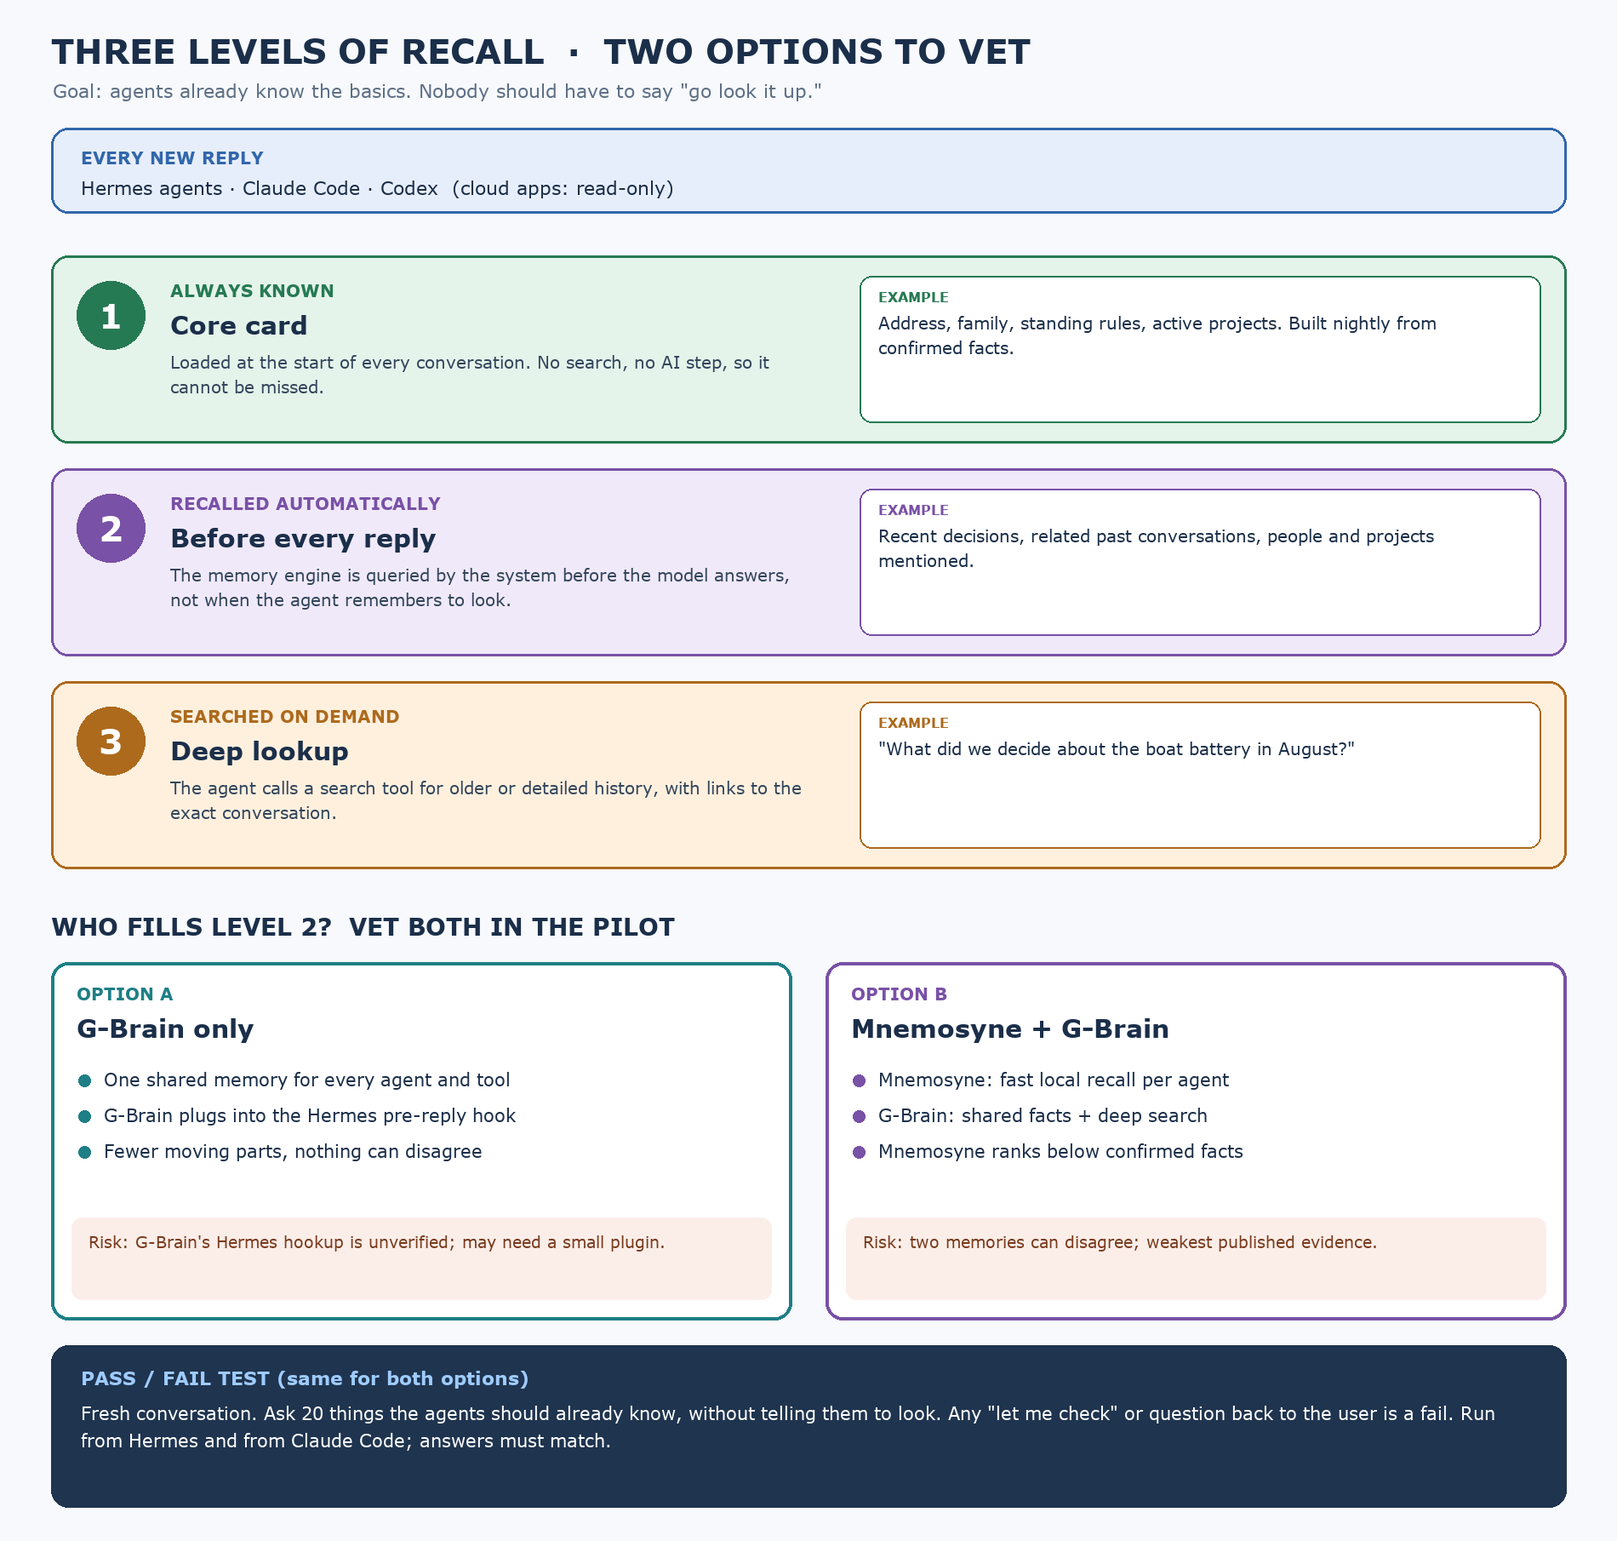
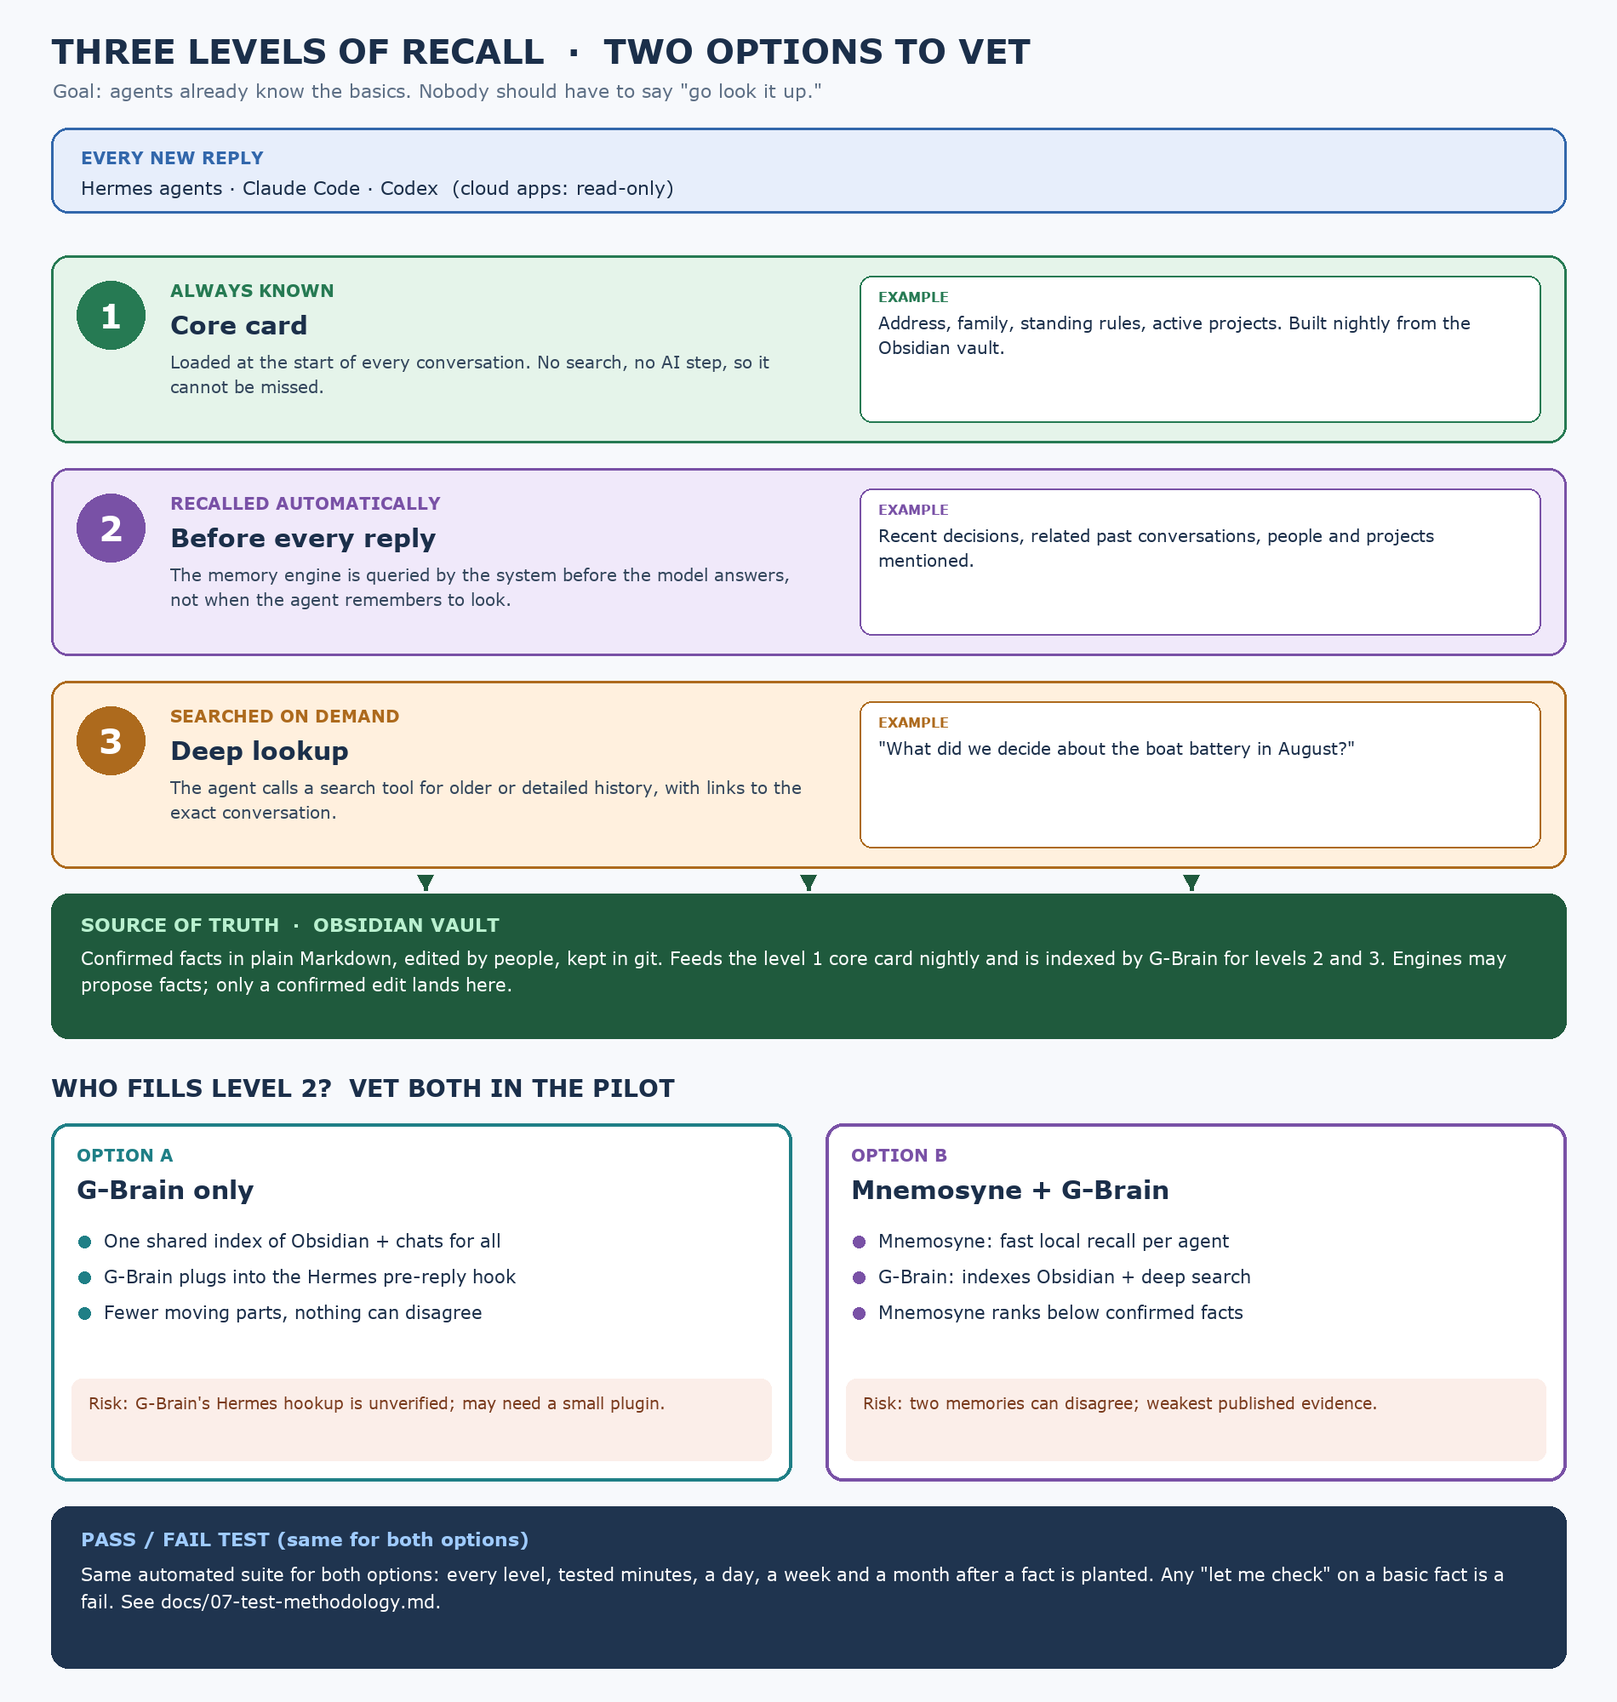
Add Obsidian source-of-truth to recall diagram; add automated test methodology and timeline

diff --git a/diagrams/src/memory-recall-levels.py b/diagrams/src/memory-recall-levels.py
@@ -2,7 +2,7 @@ from PIL import Image, ImageDraw, ImageFont
 from pathlib import Path
 import math, sys
 out = Path(sys.argv[1]) if len(sys.argv) > 1 else Path('memory-recall-levels.png')
-W, H = 1900, 1980
+W, H = 1900, 2200
 im = Image.new('RGB', (W, H), '#f7f9fc'); d = ImageDraw.Draw(im)
 reg = '/System/Library/Fonts/Supplemental/Verdana.ttf'; bold = '/System/Library/Fonts/Supplemental/Verdana Bold.ttf'
 def F(n, b=False): return ImageFont.truetype(bold if b else reg, n)
@@ -30,7 +30,7 @@ T(95, 206, 'Hermes agents · Claude Code · Codex  (cloud apps: read-only)', 22,
 levels = [
  ('1', 'ALWAYS KNOWN', 'Core card', green, '#e5f4ea',
   'Loaded at the start of every conversation. No search, no AI step, so it cannot be missed.',
-  'Address, family, standing rules, active projects. Built nightly from confirmed facts.'),
+  'Address, family, standing rules, active projects. Built nightly from the Obsidian vault.'),
  ('2', 'RECALLED AUTOMATICALLY', 'Before every reply', purple, '#f0e9fa',
   'The memory engine is queried by the system before the model answers, not when the agent remembers to look.',
   'Recent decisions, related past conversations, people and projects mentioned.'),
@@ -48,16 +48,23 @@ for n, cap, name, c, fill, how, ex in levels:
     T(1032, y+38, 'EXAMPLE', 16, c, True)
     wrap(1032, y+66, ex, W-90-1032-30, 20, dark)
     y += lh
+# source of truth band
+B((60, y, W-60, y+170), '#1f5a3d', None)
+T(95, y+22, 'SOURCE OF TRUTH  ·  OBSIDIAN VAULT', 22, '#b9f0cf', True)
+wrap(95, y+62, 'Confirmed facts in plain Markdown, edited by people, kept in git. Feeds the level 1 core card nightly and is indexed by G-Brain for levels 2 and 3. Engines may propose facts; only a confirmed edit lands here.', W-220, 21, '#ffffff', False, 31)
+for x in (500, 950, 1400):
+    A((x, y-22), (x, y-4), '#1f5a3d', 5)
+y += 190
 # options
 oy = y + 20
 T(60, oy, 'WHO FILLS LEVEL 2?  VET BOTH IN THE PILOT', 28, dark, True)
 cw = (W-60*2-40)//2
 opts = [
  ('OPTION A', 'G-Brain only', teal,
-  ['One shared memory for every agent and tool', 'G-Brain plugs into the Hermes pre-reply hook', 'Fewer moving parts, nothing can disagree'],
+  ['One shared index of Obsidian + chats for all', 'G-Brain plugs into the Hermes pre-reply hook', 'Fewer moving parts, nothing can disagree'],
   'Risk: G-Brain\'s Hermes hookup is unverified; may need a small plugin.'),
  ('OPTION B', 'Mnemosyne + G-Brain', purple,
-  ['Mnemosyne: fast local recall per agent', 'G-Brain: shared facts + deep search', 'Mnemosyne ranks below confirmed facts'],
+  ['Mnemosyne: fast local recall per agent', 'G-Brain: indexes Obsidian + deep search', 'Mnemosyne ranks below confirmed facts'],
   'Risk: two memories can disagree; weakest published evidence.'),
 ]
 for i, (tag, name, c, pts, risk) in enumerate(opts):
@@ -72,6 +79,6 @@ for i, (tag, name, c, pts, risk) in enumerate(opts):
 fy = oy + 510
 B((60, fy, W-60, fy+190), '#1f344f', None)
 T(95, fy+24, 'PASS / FAIL TEST (same for both options)', 22, '#9fcbff', True)
-wrap(95, fy+66, 'Fresh conversation. Ask 20 things the agents should already know, without telling them to look. Any "let me check" or question back to the user is a fail. Run from Hermes and from Claude Code; answers must match.', W-220, 21, '#ffffff', False, 32)
+wrap(95, fy+66, 'Same automated suite for both options: every level, tested minutes, a day, a week and a month after a fact is planted. Any "let me check" on a basic fact is a fail. See docs/07-test-methodology.md.', W-220, 21, '#ffffff', False, 32)
 im = im.crop((0, 0, W, fy+230))
 im.save(out); print(out, im.size)

diff --git a/diagrams/src/memory-test-timeline.py b/diagrams/src/memory-test-timeline.py
@@ -1,0 +1,47 @@
+from PIL import Image, ImageDraw, ImageFont
+from pathlib import Path
+import sys
+out = Path(sys.argv[1]) if len(sys.argv) > 1 else Path('memory-test-timeline.png')
+W, H = 2000, 1600
+im = Image.new('RGB', (W, H), '#f7f9fc'); d = ImageDraw.Draw(im)
+reg = '/System/Library/Fonts/Supplemental/Verdana.ttf'; bold = '/System/Library/Fonts/Supplemental/Verdana Bold.ttf'
+def F(n, b=False): return ImageFont.truetype(bold if b else reg, n)
+def T(x, y, s, n=22, c='#22344c', b=False, anchor=None): d.text((x, y), s, font=F(n, b), fill=c, anchor=anchor)
+dark = '#1b2f4a'
+T(60, 34, 'AUTOMATED MEMORY TEST  ·  WHAT IS CHECKED, AND WHEN', 38, dark, True)
+T(62, 90, 'A test harness plants harmless "canary" facts through normal conversation, then probes in fresh sessions.', 21, '#5d6f85')
+x0, cw = 560, 284
+cols = [('SAME HOUR', '+10 min', '#3267ab'), ('NEXT DAY', 'after nightly jobs', '#1f7f86'),
+        ('ONE WEEK', 'after tidy-ups', '#7951a6'), ('ONE MONTH', 'long memory', '#ad6a1d'), ]
+for i, (a, b, c) in enumerate(cols):
+    x = x0 + i*cw
+    d.rounded_rectangle((x+6, 140, x+cw-6, 222), radius=12, fill=c)
+    T(x+cw//2, 166, a, 21, '#ffffff', True, 'mm'); T(x+cw//2, 198, b, 16, '#e8eef6', False, 'mm')
+rows = [
+ ('L1  Core card', 'basic facts, no lookup', '#267a53', ['golden facts', 'card rebuilt OK', 'golden facts', 'full golden set']),
+ ('L2  Auto recall', 'arrives before reply', '#7951a6', ['canary recalled', 'canary recalled', 'canary recalled', 'canary recalled']),
+ ('L3  Deep search', 'finds + cites source', '#ad6a1d', ['', 'cites exact chat', 'cites exact chat', 'old decision found']),
+ ('Capture', 'decision saved as said', '#3267ab', ['decision indexed', 'Claude Code log in', '', '']),
+ ('Updates', 'old value disappears', '#1f7f86', ['', 'changed fact', 'no old value', 'no old value']),
+ ('Bad facts', 'never promoted', '#b5452f', ['planted claim', 'not in vault', 'not in card', 'not in card']),
+ ('Handoff', 'pick up mid-task', '#5a4fb0', ['new session', 'other agent', '', '']),
+ ('Cross-tool', 'same answer everywhere', '#4f6075', ['', 'Hermes = Claude', 'Hermes = Claude', 'all 6 agents']),
+ ('Guardrails', 'access + failure', '#4f6075', ['', '', 'cloud token denied', 'engine down: says so']),
+]
+y0, rh = 240, 118
+for k, (name, sub, c, cells) in enumerate(rows):
+    y = y0 + k*rh
+    if k % 2 == 0: d.rectangle((40, y, W-40, y+rh), fill='#eef2f7')
+    d.rectangle((40, y+14, 52, y+rh-14), fill=c)
+    T(72, y+26, name, 24, dark, True); T(72, y+64, sub, 18, '#5a6b80')
+    for i, s in enumerate(cells):
+        if not s: continue
+        x = x0 + i*cw
+        d.rounded_rectangle((x+18, y+24, x+cw-18, y+rh-24), radius=14, fill='#ffffff', outline=c, width=3)
+        T(x+cw//2, y+rh//2, s, 18, dark, False, 'mm')
+fy = y0 + len(rows)*rh + 30
+d.rounded_rectangle((40, fy, W-40, fy+150), radius=18, fill='#1f344f')
+T(75, fy+22, 'RUNS BY ITSELF', 21, '#9fcbff', True)
+T(75, fy+60, 'Nightly: plant + same-hour + next-day checks.  Weekly and monthly: older canaries + full sweep.', 20, '#ffffff')
+T(75, fy+98, 'Also after every Hermes or memory update.  Results to the dashboard; alert only when a score drops.', 20, '#d7e3f0')
+im = im.crop((0, 0, W, fy+190)); im.save(out); print(out, im.size)

diff --git a/docs/07-test-methodology.md b/docs/07-test-methodology.md
@@ -1,0 +1,83 @@
+# 07 · Automated test methodology
+
+**Goal:** prove, without anyone running tests by hand, that each level of memory works, and that it keeps working a day, a week and a month later. Most memory failures only show up over time: facts that were never captured, overwritten, made stale by a change, or tidied away by a consolidation job.
+
+![Test timeline](../diagrams/memory-test-timeline.png)
+
+## Core idea: plant, wait, probe
+
+1. **Plant.** A test harness holds a normal conversation with an agent and mentions a harmless, made-up **canary fact** in passing. For example: *"Remind me, the spare dinghy key is now in the blue tin."* Each canary carries a unique marker so it can be graded exactly.
+2. **Wait.** The harness probes again after 10 minutes, the next day, one week and one month. Each wait crosses a different risk: nightly jobs, weekly tidy-ups, long-term decay.
+3. **Probe.** Each probe starts a **fresh conversation** and asks a question that needs the fact, **without hinting that it should look anything up**.
+4. **Grade.** The harness checks what the agent answered, *and* how the memory arrived (see the next section).
+
+## Grading: what counts as a pass
+
+Every probe is logged with its full trace, so we know **how** the memory arrived, not just whether the answer was right:
+
+| Result | Meaning | Level 1–2 grade |
+|---|---|---|
+| Right answer, no tool call | Memory was already in context | **Pass** |
+| Right answer after a search tool call | The agent had to look | **Soft fail** for basic facts; pass for level 3 |
+| "Let me check" / asks the user | The confidence-killer | **Fail** |
+| Wrong or stale answer | Worse than not knowing | **Hard fail** |
+| "I don't know" on a never-stated fact | Correct refusal to guess | **Pass** (negative control) |
+
+Canary answers are graded by **exact match on the unique marker**, with no AI judge. An AI judge is used only for open questions such as "why did we decide X?", and every judged answer must also cite a source conversation that the harness can check.
+
+## Two fact sets
+
+- **Golden facts (real, read-only):** about 20 confirmed facts from the Obsidian vault, such as address, family members, boat name and standing rules. These are only *asked about*, never changed. They test level 1 every run.
+- **Canary facts (made-up, planted):** new ones are planted each night and tagged `canary` so they can be withdrawn after 35 days. **Canaries go to dedicated test profiles, never into real agent memory.**
+
+## What each test checks
+
+| Test | Checks | Timeframes |
+|---|---|---|
+| **L1 core card** | Golden facts answered with no tool call; card rebuilt nightly | Every run |
+| **L2 auto recall** | Canary arrives before the reply, unprompted | 10 min → 1 month |
+| **L3 deep search** | Finds the fact *and* cites the exact original conversation | Day → month |
+| **Capture** | A decision said in passing ends up indexed as said, with a link back | 10 min, next day |
+| **Updates** | Change a canary; the old value must stop appearing everywhere | Day → month |
+| **Bad facts** | A planted, unconfirmed claim is never promoted to the vault or core card | Every run |
+| **Handoff** | Start a task, end the session; a new session (or another agent) picks it up correctly | 10 min, next day |
+| **Time questions** | "What did we decide last Tuesday?" picks the right dated item | Week, month |
+| **Distractors** | Two similar canaries (blue tin / red tin); the right one is returned | Every run |
+| **Cross-tool** | Hermes and Claude Code give the same answer from the same memory | Day → month |
+| **Access** | A cloud-app token cannot read a private fact | Weekly |
+| **Failure** | Memory engine stopped: the agent says it can't verify rather than guessing | Monthly |
+
+These map onto the five LongMemEval ability types: extraction, multi-session reasoning, time reasoning, knowledge updates and abstention. Results stay comparable with published work.
+
+## The real-world signal (passive, no test needed)
+
+The test suite measures a lab setup. The thing that actually matters is whether the agents annoy their user. A nightly job scans **real** conversations for an agent asking about something that is already in the vault or core card (for example "what's your address?" or "can you remind me…"). It reports the **should-have-known rate** per agent per week.
+
+- This is the headline number. It should fall to near zero, and stay there.
+- Every hit is linked to the exact message, so each miss can be traced to its cause: missing fact, card not loaded, or recall not triggered.
+
+## Comparing Option A and Option B fairly
+
+- Two cloned **test profiles** (`test-a` = G-Brain only, `test-b` = Mnemosyne + G-Brain) receive the **identical scripted conversations** at the same times.
+- Both are probed with the same questions on the same schedule.
+- After 30 days, compare: pass rate by level and age, stale-answer rate, should-have-known rate, cost per reply (extra tokens injected) and added delay before replies.
+- **Tie goes to Option A** (simpler, one memory).
+
+## Schedule (all automatic)
+
+- **Nightly:** plant new canaries, run the 10-minute and next-day probes, run golden facts, and scan real conversations for should-have-known hits.
+- **Weekly:** week-old canary probes, access test and distractor sweep.
+- **Monthly:** month-old canaries, full sweep across all six agents, failure test (engine briefly stopped on the test profile only) and canary clean-up.
+- **After every Hermes or memory-engine update:** the full quick suite. A drop blocks the rollout.
+
+## Reporting
+
+- One dashboard row per level × timeframe, plus the should-have-known trend.
+- **Alert only when a score drops** below its 4-week baseline. Routine passes stay quiet.
+- Every failure links to the full trace (prompt, injected memory, tool calls, answer), so diagnosing it takes minutes.
+
+## Cost and safety
+
+- About 30 short probe conversations a night across the two test profiles. Small, and capped by a nightly budget.
+- Canaries are clearly made-up, tagged and auto-withdrawn. They never touch the real Obsidian vault or real agent profiles.
+- Golden-fact probes are read-only.

diff --git a/README.md b/README.md
@@ -24,13 +24,16 @@ We run six Hermes agents (chief of staff, engineering, travel, health, boat, fin
 
 ![Three levels of recall](diagrams/memory-recall-levels.png)
 
-- **Level 1, always known:** a short "core card" built nightly from confirmed facts and loaded into every conversation. No search, so it can't be missed.
+- **Source of truth:** an **Obsidian vault** of confirmed facts, in plain Markdown, edited by people and kept in git. Everything else is built from it or indexed alongside it.
+- **Level 1, always known:** a short "core card" built nightly from the Obsidian vault and loaded into every conversation. No search, so it can't be missed.
 - **Level 2, recalled automatically:** a memory engine queried by the system **before every reply**, not when the agent remembers to look.
 - **Level 3, searched on demand:** deep search of older history, linked to the exact conversation.
 
 We are vetting **two options for level 2:**
 - **Option A:** G-Brain only, one shared memory.
 - **Option B:** Mnemosyne for fast per-agent recall, plus G-Brain for shared facts and deep search.
+
+Both are judged by the same **automated test suite**. It plants made-up "canary" facts and probes every level 10 minutes, a day, a week and a month later. It also tracks how often agents ask about things they should already know.
 
 ![Config layers](diagrams/memory-config-layers.png)
 
@@ -42,8 +45,11 @@ We are vetting **two options for level 2:**
 4. [docs/04-network-access.md](docs/04-network-access.md): Tailscale vs Cloudflare for outside tools
 5. [docs/05-pilot-plan.md](docs/05-pilot-plan.md): pilot scope and pass/fail tests
 6. [docs/06-discussion-questions.md](docs/06-discussion-questions.md): questions for the peer team
-7. [research/evidence-brief-2026-10-13.md](research/evidence-brief-2026-10-13.md): the detailed, source-linked research brief
-8. [research/sources.md](research/sources.md): every source, grouped by type and confidence
+7. [docs/07-test-methodology.md](docs/07-test-methodology.md): automated tests for every level, over short and medium timeframes
+8. [research/evidence-brief-2026-10-13.md](research/evidence-brief-2026-10-13.md): the detailed, source-linked research brief
+9. [research/sources.md](research/sources.md): every source, grouped by type and confidence
+
+![Automated test timeline](diagrams/memory-test-timeline.png)
 
 ## Scorecard
 

diff --git a/docs/06-discussion-questions.md b/docs/06-discussion-questions.md
@@ -7,5 +7,5 @@
 5. **Index as you go vs on query:** do you extract decisions during the conversation, or only search the raw history at query time? Which mattered more?
 6. **Sharing across agents:** one memory for all agents, or separate memories with a shared fact layer? How do you handle sensitive facts?
 7. **Outside tools:** have you connected Sesame, Muse, Grok or Dot to your memory? Did the login flow work?
-8. **Measurement:** how do you know your memory is getting better or worse? Any regression test you'd recommend?
+8. **Measurement:** how do you know your memory is getting better or worse? We plan canary facts probed at 10 minutes, a day, a week and a month, plus a should-have-known rate from real chats. What would you add or cut?
 9. **What would you not do again?**

diff --git a/docs/05-pilot-plan.md b/docs/05-pilot-plan.md
@@ -14,6 +14,8 @@
 
 ## Test set (frozen before step 2)
 
+Full automated method: [07-test-methodology.md](07-test-methodology.md). Build the test harness **before** installing anything, so step 2 has a baseline. Minimum set:
+
 - 20 "should already know" questions (fresh conversation, no hint to look things up)
 - Changed fact: the old value must disappear
 - Planted false claim: it must not be adopted
@@ -25,5 +27,6 @@
 ## Ongoing upkeep target
 
 - Weekly: 5-minute review of proposed facts
-- Monthly: automated 20-question test; alert only on a drop
+- Nightly / weekly / monthly automated suite; alert only on a drop
+- Headline number: the **should-have-known rate** from real conversations
 - Skills are patched after real wins and mistakes

diff --git a/docs/02-options-to-vet.md b/docs/02-options-to-vet.md
@@ -22,7 +22,7 @@ Both options share levels 1 and 3, the config layers and the trust rules. They d
 
 ## How we decide
 
-Run both against the **same frozen question set**, on the same two pilot agents:
+Full method: [07-test-methodology.md](07-test-methodology.md). Two cloned test profiles get identical scripted conversations for 30 days, scored on:
 
 1. **"Should already know" test (the deciding one):** fresh conversation, 20 questions the agents should know, with no instruction to look anything up. Any "let me check" or question back to the user is a fail.
 2. **Changed-fact test:** change a fact; the old value must stop appearing.

diff --git a/diagrams/README.md b/diagrams/README.md
@@ -4,6 +4,7 @@ Current:
 - `memory-recall-levels.png`: three levels of recall and the two options to vet
 - `memory-config-layers.png`: config layers and recommendations
 - `memory-scorecard-v2.png`: outcome-based scorecard
+- `memory-test-timeline.png`: automated tests by level and timeframe
 
 `src/` holds the Python (Pillow) scripts that draw them: `python3 src/<name>.py <out.png>`. They use macOS Verdana fonts.
 
